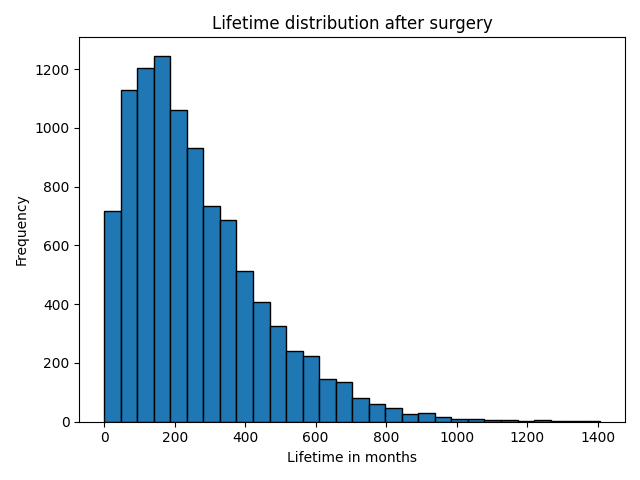
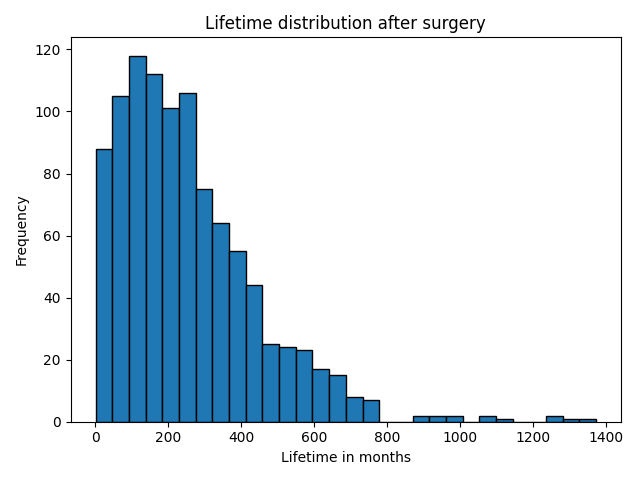
...

diff --git a/Stochastic-Simulation/Project-1/Part-2.py b/Stochastic-Simulation/Project-1/Part-2.py
@@ -2,6 +2,22 @@ import numpy as np
 import matplotlib.pyplot as plt
 from scipy.stats import t, chi2, kstest
 from scipy.linalg import expm
+import sys
+from contextlib import redirect_stdout
+
+
+class Tee:
+    def __init__(self, *files):
+        self.files = files
+
+    def write(self, text):
+        for file in self.files:
+            file.write(text)
+
+    def flush(self):
+        for file in self.files:
+            file.flush()
+
 
 #################### -------------------- Task 7 -------------------- ####################
 Q = np.array([
@@ -10,6 +26,14 @@ Q = np.array([
     [ 0.0000, 0.0000, -0.0080, 0.0030, 0.0050],
     [ 0.0000, 0.0000, 0.0000, -0.0090, 0.0090],
     [ 0.0000, 0.0000, 0.0000, 0.0000, 0.0000]
+])
+
+Q_treat = np.array([
+    [-0.00475, 0.00250, 0.00125, 0.00000, 0.00100],
+    [ 0.00000, -0.00700, 0.00000, 0.00200, 0.00500],
+    [ 0.00000, 0.00000, -0.00800, 0.00300, 0.00500],
+    [ 0.00000, 0.00000, 0.00000, -0.00900, 0.00900],
+    [ 0.00000, 0.00000, 0.00000, 0.00000, 0.00000]
 ])
 
 
@@ -89,11 +113,13 @@ def summaries(lifetimes, observation_states, n, savepath = "Assets/P2_task7"):
 
     distant_fraction = distant_count / len(observation_states)
 
-    print(f"Mean lifetime: {mean:.2f}")
-    print(f"95% CI for mean: [{mean_ci[0]:.2f}, {mean_ci[1]:.2f}]")
-    print(f"Standard deviation: {sd:.2f}")
-    print(f"95% CI for SD: [{sd_ci[0]:.2f}, {sd_ci[1]:.2f}]")
-    print(f"Distant recurrence after 30.5 months: {distant_fraction:.4f}")
+    print("\nSummary statistics")
+    print("------------------")
+    print(f"Mean lifetime:              {mean:.2f} months")
+    print(f"95% CI for mean:            [{mean_ci[0]:.2f}, {mean_ci[1]:.2f}] months")
+    print(f"Standard deviation:         {sd:.2f} months")
+    print(f"95% CI for SD:              [{sd_ci[0]:.2f}, {sd_ci[1]:.2f}] months")
+    print(f"Distant recurrence rate:    {distant_fraction:.2%}")
 
     plt.hist(lifetimes, bins=30, edgecolor="black")
     plt.xlabel("Lifetime in months")
@@ -125,7 +151,10 @@ def plot_state_distribution(observation_states, t, savepath="Assets/P2_task7_sta
             state_counts[3] += 1
         elif state == 4:
             state_counts[4] += 1
-    print(state_counts)
+
+    print(f"\nState distribution after {t} months:")
+    for name, count in zip(state_names, state_counts):
+        print(f"  {name:22}: {count}")
 
     plt.bar(state_names, state_counts)
     plt.xlabel("State")
@@ -157,13 +186,15 @@ def test_lifetime_distribution(lifetimes, Q):
         lambda times: ctmc_cdf(times, Q)
     )
 
+    print("\nKolmogorov-Smirnov test")
+    print("------------------------")
     print(f"KS statistic: {statistic:.4f}")
-    print(f"p-value: {p_value:.4f}")
+    print(f"p-value:       {p_value:.4f}")
 
     if p_value < 0.05:
-        print("Reject: simulated lifetimes do not follow the theoretical distribution.")
+        print("Conclusion: reject the null hypothesis. Simulated lifetimes do not match the theoretical distribution.")
     else:
-        print("Do not reject: simulated lifetimes are consistent with the theoretical distribution.")
+        print("Conclusion: do not reject the null hypothesis. Simulated lifetimes are consistent with the theoretical distribution.")
 
 #################### -------------------- Task 9 -------------------- ####################
 def survival_function(lifetimes, savepath="Assets/P2_task9_survival"):
@@ -186,12 +217,77 @@ def survival_function(lifetimes, savepath="Assets/P2_task9_survival"):
     plt.savefig(savepath)
     plt.close()
     
+def survival_function_compare(baseline, treatment, savepath="Assets/P2_task9_survival_compare"):
+    baseline = np.sort(np.array(baseline))
+    treatment = np.sort(np.array(treatment))
+    n = len(treatment)
+
+    survival_baseline, survival_treatment = [], []
+
+    if len(baseline) != len(treatment): raise ValueError ("Not the same length")
+    
+    for t in baseline:
+        deaths_baseline = np.sum(baseline <= t)
+        deaths_treatment = np.sum(treatment <= t)
+
+        survival_baseline.append((n - deaths_baseline) / n)
+        survival_treatment.append((n - deaths_treatment) / n)
+
+    plt.step(baseline, survival_baseline, where="post")
+    plt.step(baseline, survival_treatment, where="post")
+    plt.xlabel("Time in months")
+    plt.ylabel("Survival probability")
+    plt.title("Kaplan-Meier survival function")
+    plt.ylim(0, 1)
+    plt.tight_layout()
+    plt.savefig(savepath)
+    plt.close()
+
+    return survival_baseline, survival_treatment
+
+def log_rank_test(baseline, treatment):
+    baseline = np.asarray(baseline)
+    treatment = np.asarray(treatment)
+
+    event_times = np.unique(np.concatenate([baseline, treatment]))
+
+    observed = 0
+    expected = 0
+    variance = 0
+
+    for time in event_times:
+        risk_baseline = np.sum(baseline >= time)
+        risk_treatment = np.sum(treatment >= time)
+        total_risk = risk_baseline + risk_treatment
+
+        deaths_baseline = np.sum(baseline == time)
+        total_deaths = deaths_baseline + np.sum(treatment == time)
+
+        if total_risk <= 1:
+            continue
+
+        observed += deaths_baseline
+        expected += total_deaths * risk_baseline / total_risk
+
+        variance += (
+            risk_baseline
+            * risk_treatment
+            * total_deaths
+            * (total_risk - total_deaths)
+            / (total_risk**2 * (total_risk - 1))
+        )
+
+    statistic = (observed - expected) ** 2 / variance
+    p_value = chi2.sf(statistic, df=1)
+
+    return statistic, p_value
+
 def main():
     np.random.seed(42)
     #################### -------------------- Task 7 -------------------- ####################
     print("Task 7 - Simulation")
     deaths = 0
-    n = 10000
+    n = 1000
     lifetimes = []
     observation_states = []
     oberservation_time = 30.5
@@ -203,25 +299,57 @@ def main():
         lifetimes.append(lifetime)
         observation_states.append(state_at_obeservation)
     
-    print(deaths / n)
-    print(np.mean(lifetimes))
+    print("\nTask 7 summary")
+    print("--------------")
+    print(f"Proportion dead by {oberservation_time} months: {deaths / n:.4f}")
+    print(f"Mean simulated lifetime:            {np.mean(lifetimes):.2f} months")
 
     summaries(lifetimes, observation_states, n)
     plot_state_distribution(observation_states, oberservation_time)
 
     #################### -------------------- Task 8 -------------------- ####################
-    print("\n\nTask 8 - Theoretical")
+    print("\n\nTask 8 - Theoretical results")
     death_probability, mean_lifetime = theoretical_ctmc(Q, 30.5)
-    print("death_probability", death_probability,)
-    print("mean lifetime", mean_lifetime,)
+    print(f"Death probability by {oberservation_time} months: {death_probability:.4f}")
+    print(f"Mean lifetime:                         {mean_lifetime:.2f} months")
 
     test_lifetime_distribution(lifetimes, Q)
 
-    #################### -------------------- Task 9 -------------------- ####################
+    #################### -------------------- Task 9 --------------------
+    print("\n\nTask 9 - Treatment analysis")
+    # This is just to see how the function works
     survival_function(lifetimes)
+    death_probability, mean_lifetime = theoretical_ctmc(Q_treat, 30.5)
+    print(f"Treatment death probability by {oberservation_time} months: {death_probability:.4f}")
+    print(f"Treatment mean lifetime:                         {mean_lifetime:.2f} months")
+
+    # Running the actual simulation
+    treat_lifetimes = []
+    treat_observation_states = []
+
+    for i in range(n):
+        lifetime, state_at_obeservation = simulate_woman_ctmc(Q_treat, oberservation_time)
+        treat_lifetimes.append(lifetime)
+        treat_observation_states.append(state_at_obeservation)
+
+    survival_baseline, survival_treatment = survival_function_compare(lifetimes, treat_lifetimes)
+
+    # Does the treatment have an effect?
+    statistic, p_value = log_rank_test(lifetimes, treat_lifetimes)
+    print("\nLog-rank test comparing baseline and treatment")
+    print("--------------------------------------------")
+    print(f"Statistic: {statistic:.4f}")
+    print(f"p-value:   {p_value:.4f}")
+    if p_value < 0.05:
+        print("Conclusion: significant difference in survival curves (reject H0).")
+    else:
+        print("Conclusion: no significant difference detected (do not reject H0).")
+
     return None
 
 
     
 if __name__ == "__main__":
-    main()
+    with open("Log/P2_results.txt", "w") as file:
+        with redirect_stdout(Tee(sys.stdout, file)):
+            main()

diff --git a/Stochastic-Simulation/Project-1/Part-1.py b/Stochastic-Simulation/Project-1/Part-1.py
@@ -1,7 +1,21 @@
 import numpy as np
 import matplotlib.pyplot as plt
 from scipy.stats import chisquare
+import sys
+from contextlib import redirect_stdout
 
+
+class Tee:
+    def __init__(self, *files):
+        self.files = files
+
+    def write(self, text):
+        for file in self.files:
+            file.write(text)
+
+    def flush(self):
+        for file in self.files:
+            file.flush()
 
 
 P_0 = [1, 0, 0, 0, 0]
@@ -303,12 +317,14 @@ def task_5(P, P_0, n_replications=100, n_women=200, limit=350):
         1 - variance_Y / variance_X
     )
 
-    print("Crude estimate:", np.mean(X))
-    print("Control variate estimate:", np.mean(Y))
-    print("c:", c)
-    print("Crude variance:", variance_X)
-    print("Control variate variance:", variance_Y)
-    print(f"Variance reduction: {variance_reduction:.2f}%")
+    print("\nTask 5 - Control variate estimation")
+    print("-----------------------------------")
+    print(f"Crude estimate:              {np.mean(X):.6f}")
+    print(f"Control variate estimate:    {np.mean(Y):.6f}")
+    print(f"Control coefficient c:       {c:.6f}")
+    print(f"Crude variance:              {variance_X:.6f}")
+    print(f"Control variate variance:    {variance_Y:.6f}")
+    print(f"Variance reduction:          {variance_reduction:.2f}%")
 
 def main():
     #################### -------------------- Task 1 -------------------- ####################
@@ -342,40 +358,43 @@ def main():
         P_0,
         axis=0
     )
-    print(
-        "\nPart 2 : Shape of distribution",
-        lst_stage_distribution.shape,
-        lst_stage_distribution_expected.shape,
-        type(lst_stage_distribution)
-    )
+    print("\nTask 2 - Distribution comparison")
+    print("---------------------------------")
+    print(f"Observed distribution shape: {lst_stage_distribution.shape}")
+    print(f"Expected distribution shape: {lst_stage_distribution_expected.shape}")
+    print(f"Observed distribution type:  {type(lst_stage_distribution).__name__}")
 
     chi_squared_results = chi_squared_test(
         lst_stage_distribution,
         lst_stage_distribution_expected,
         n_womens
     )
-    print(chi_squared_results[120])
+    print("\nChi-squared result at time step 120:")
+    print(f"  Time:        {chi_squared_results[120]['Time']}")
+    print(f"  Chi-square:  {chi_squared_results[120]['Chi-squared statistic']:.4f}")
+    print(f"  p-value:     {chi_squared_results[120]['p-value']:.4f}")
 
     #################### -------------------- Task 3 -------------------- ####################
-    print("\n\nTask 3 : ")
+    print("\nTask 3 - Lifetime probabilities")
+    print("--------------------------------")
     probability_at_t = lifetime_probability(P, P_0, t)
     mean_lifetime = expected_lifetime(P, P_0)
 
-    print(f"P(T = {t}) = {probability_at_t}")
-    print(f"E[T] = {mean_lifetime}")
+    print(f"Theoretical P(T = {t}):        {probability_at_t:.6f}")
+    print(f"Theoretical E[T]:             {mean_lifetime:.4f} months")
 
-    empirical_probability_at_t = empirical_lifetime_probability(lifetimes,t)
+    empirical_probability_at_t = empirical_lifetime_probability(lifetimes, t)
     empirical_mean_lifetime = empirical_expected_lifetime(lifetimes)
 
-    print(f"Empirical P(T = {t}) = {empirical_probability_at_t}")
-    print(f"Empirical E[T] = {empirical_mean_lifetime}")
+    print(f"Empirical P(T = {t}):         {empirical_probability_at_t:.6f}")
+    print(f"Empirical E[T]:              {empirical_mean_lifetime:.4f} months")
 
     #################### -------------------- Task 4 -------------------- ####################
-    print("\n\nTask 4 : ")
+    print("\nTask 4 - Conditional sampling")
     total_women = 0
     lst_accepted_lifetimes =  []
     lst_accepted_states = []
-    while len(lst_accepted_lifetimes) < 100: # Todo : Set this to 1000 for report
+    while len(lst_accepted_lifetimes) < 1000: # Todo : Set this to 1000 for report
         total_women += 1
         lifetime, visited_states = simulate_woman(P)
         if lifetime < 12:
@@ -393,4 +412,6 @@ def main():
     task_5(P, P_0)
 
 if __name__ == "__main__":
-    main()
+    with open("Log/P1_results.txt", "w") as file:
+        with redirect_stdout(Tee(sys.stdout, file)):
+            main()

diff --git a/Stochastic-Simulation/Project-1/Part-3.py b/Stochastic-Simulation/Project-1/Part-3.py
@@ -1,0 +1,31 @@
+import numpy as np
+import matplotlib.pyplot as plt
+from scipy.stats import t, chi2, kstest
+from scipy.linalg import expm
+import sys
+from contextlib import redirect_stdout
+
+
+class Tee:
+    def __init__(self, *files):
+        self.files = files
+
+    def write(self, text):
+        for file in self.files:
+            file.write(text)
+
+    def flush(self):
+        for file in self.files:
+            file.flush()
+
+#################### -------------------- Task 12 -------------------- ####################
+
+def main():
+    np.random.seed(42)
+    #################### -------------------- Task 12 -------------------- ####################
+
+
+if __name__ == "__main__":
+    with open("Log/P2_results.txt", "w") as file:
+        with redirect_stdout(Tee(sys.stdout, file)):
+            main()
